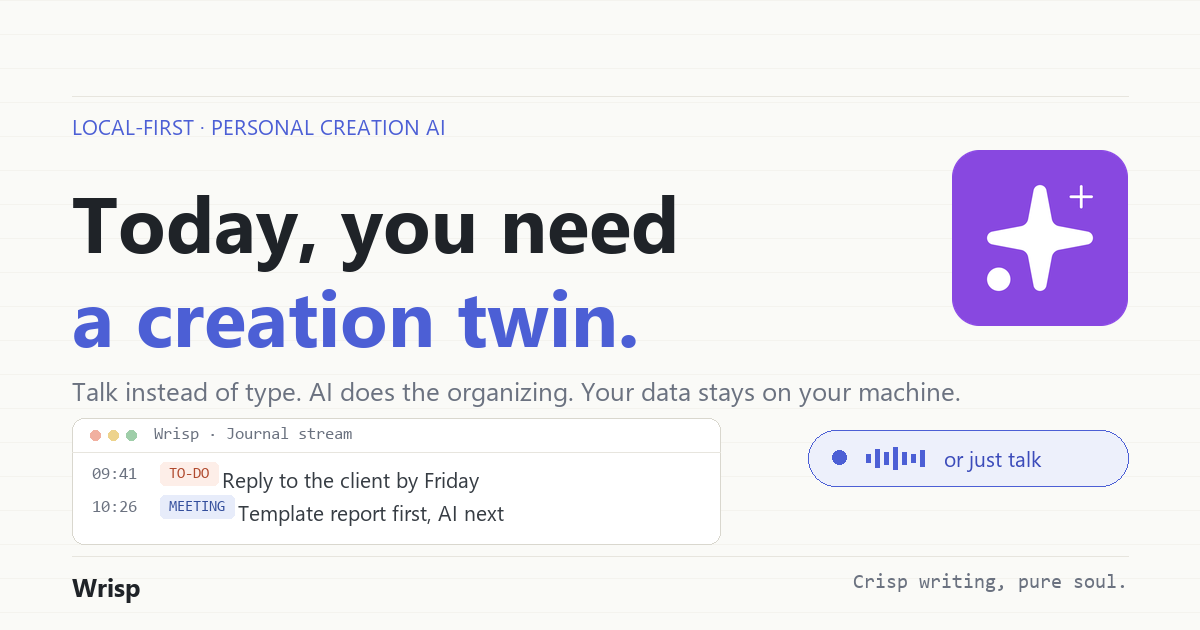
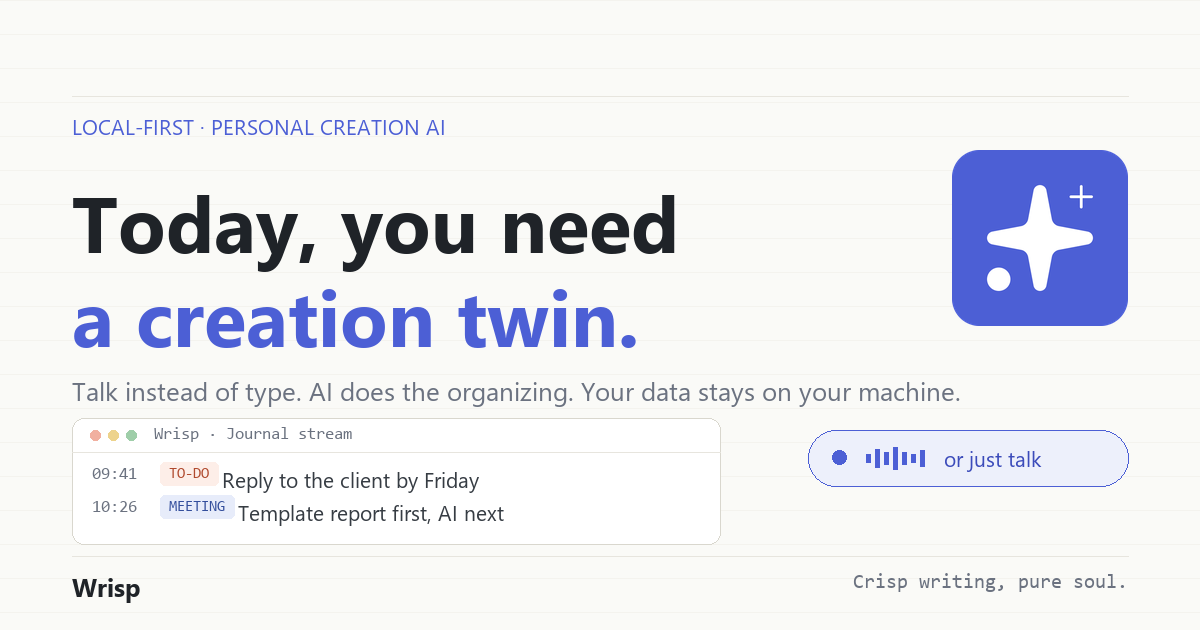
feat(brand): 换用靛蓝标识，图标与分享图同色
新增 logo.svg（矢量，作首选 favicon）与 logo.png（512 位图，作
apple-touch-icon 与分享图素材），替换此前偏紫的旧标识；页面主色
本就是 #4C5FD5，旧图与它不同源，分享到聊天工具时色差明显。
两张 og 图按新标识重新生成。

Changed region(s): [[0.7708, 0.2111, 0.9558, 0.5429]]

diff --git a/index.html b/index.html
@@ -32,8 +32,9 @@
 <link rel="alternate" hreflang="zh" href="./?lang=zh">
 <link rel="alternate" hreflang="en" href="./?lang=en">
 <link rel="alternate" hreflang="x-default" href="./">
-<link rel="icon" type="image/png" sizes="512x512" href="assets/wrisp.png">
-<link rel="apple-touch-icon" href="assets/wrisp.png">
+<link rel="icon" type="image/svg+xml" href="assets/logo.svg">
+<link rel="icon" type="image/png" sizes="512x512" href="assets/logo.png">
+<link rel="apple-touch-icon" href="assets/logo.png">
 <script type="application/ld+json">
 {
   "@context": "https://schema.org",
